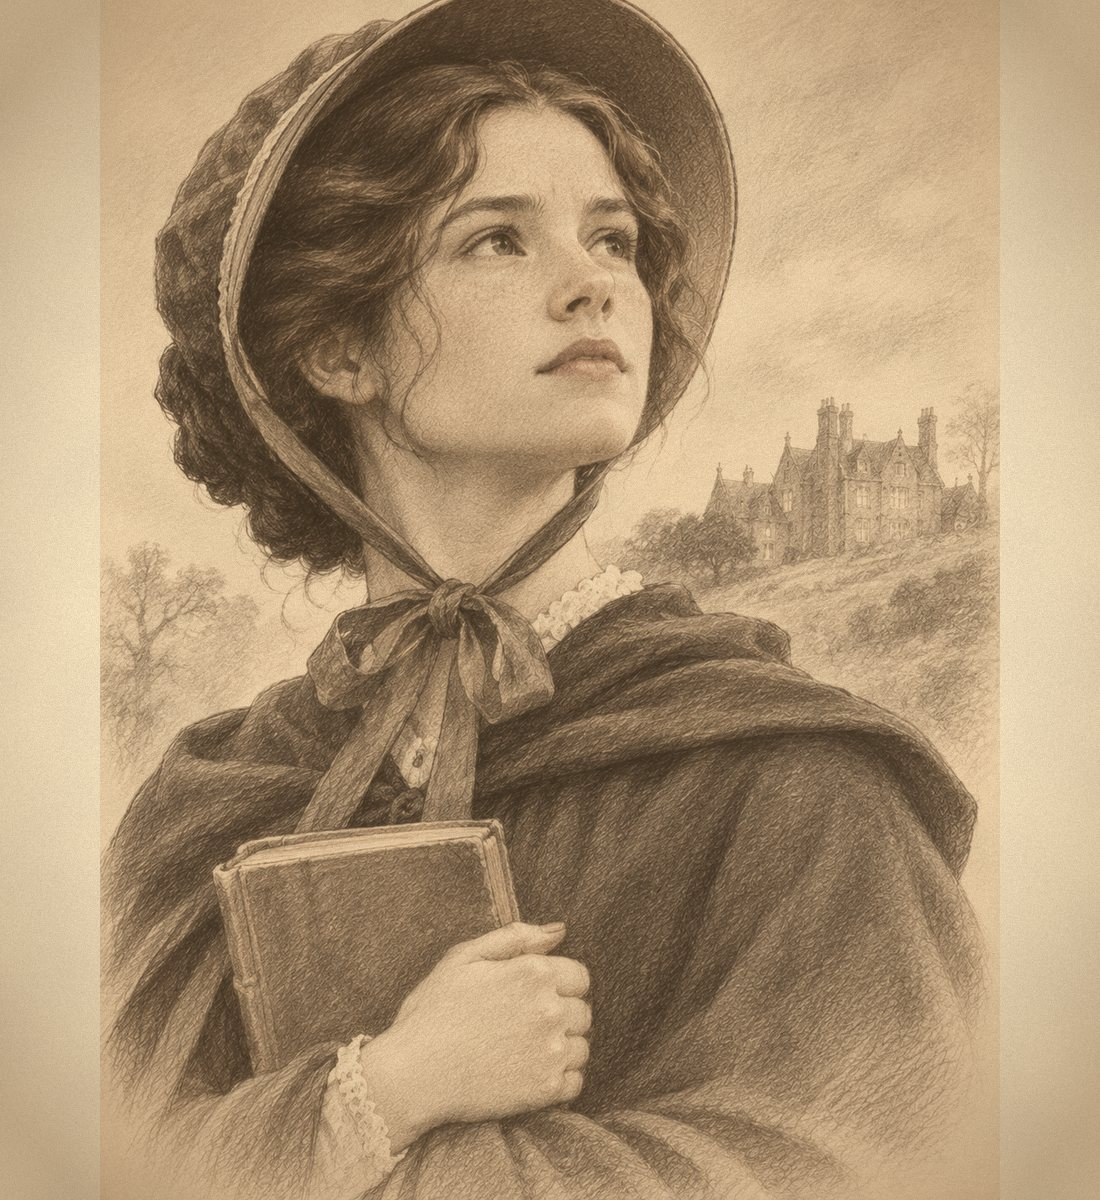
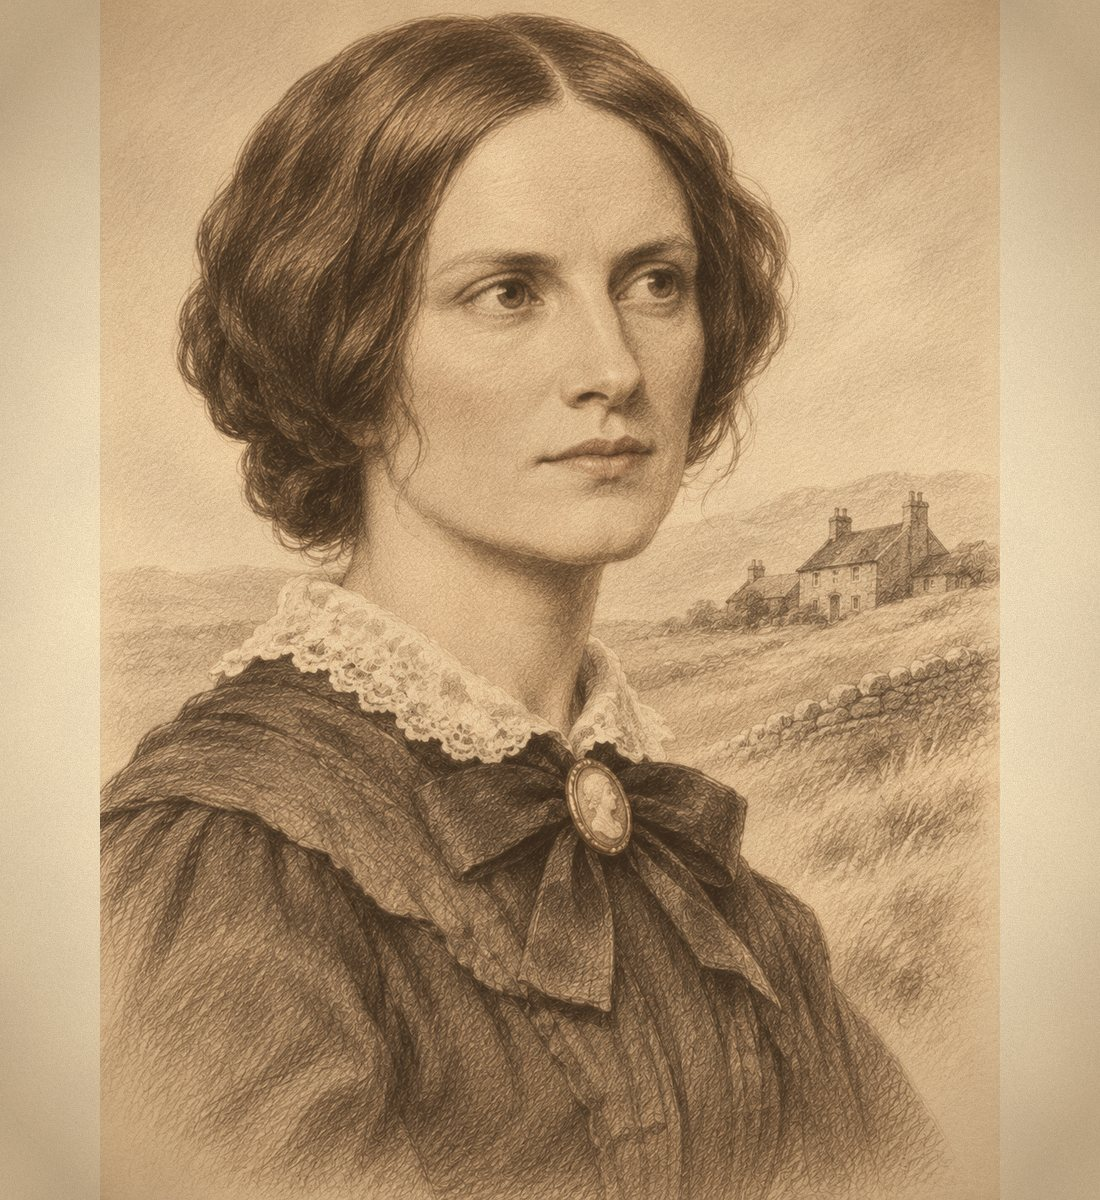
샬럿 브론테 초상 교체
Claude-Session: https://claude.ai/code/session_01TtJRsm6gWb7JBGg7tW5ewq

diff --git a/index.html b/index.html
@@ -700,7 +700,7 @@ footer .bar{margin-top:56px;height:12px}
 </section>
 <section class="dsb-pg" data-i="5" data-img="img/authors/bronte.jpg" aria-label="샬럿 브론테">
   <div class="dsb-art"><div class="dsb-plate"><span class="dsb-mono">C·B</span><span class="dsb-rule"></span><span class="dsb-pn">샬럿 브론테</span></div></div>
-  <div class="dsb-txt"><p class="dsb-k">1816 – 1855 · 영국 · 소설가</p><h4>샬럿 브론테 <small>Charlotte Brontë</small></h4><p class="dsb-intro">가난한 고아 소녀가 끝내 자기 목소리로 삶을 선택하는 이야기를 썼습니다. 그림은 소설 속 주인공 제인 에어입니다.</p><p class="dsb-works"><b>함께 읽는 작품</b>『제인 에어』</p></div>
+  <div class="dsb-txt"><p class="dsb-k">1816 – 1855 · 영국 · 소설가</p><h4>샬럿 브론테 <small>Charlotte Brontë</small></h4><p class="dsb-intro">가난한 고아 소녀가 끝내 자기 목소리로 삶을 선택하는 이야기, 『제인 에어』를 썼습니다.</p><p class="dsb-works"><b>함께 읽는 작품</b>『제인 에어』</p></div>
 </section>
 <section class="dsb-pg" data-i="6" data-img="img/authors/dostoevsky.jpg" aria-label="표도르 도스토옙스키">
   <div class="dsb-art"><div class="dsb-plate"><span class="dsb-mono">F·D</span><span class="dsb-rule"></span><span class="dsb-pn">표도르 도스토옙스키</span></div></div>
